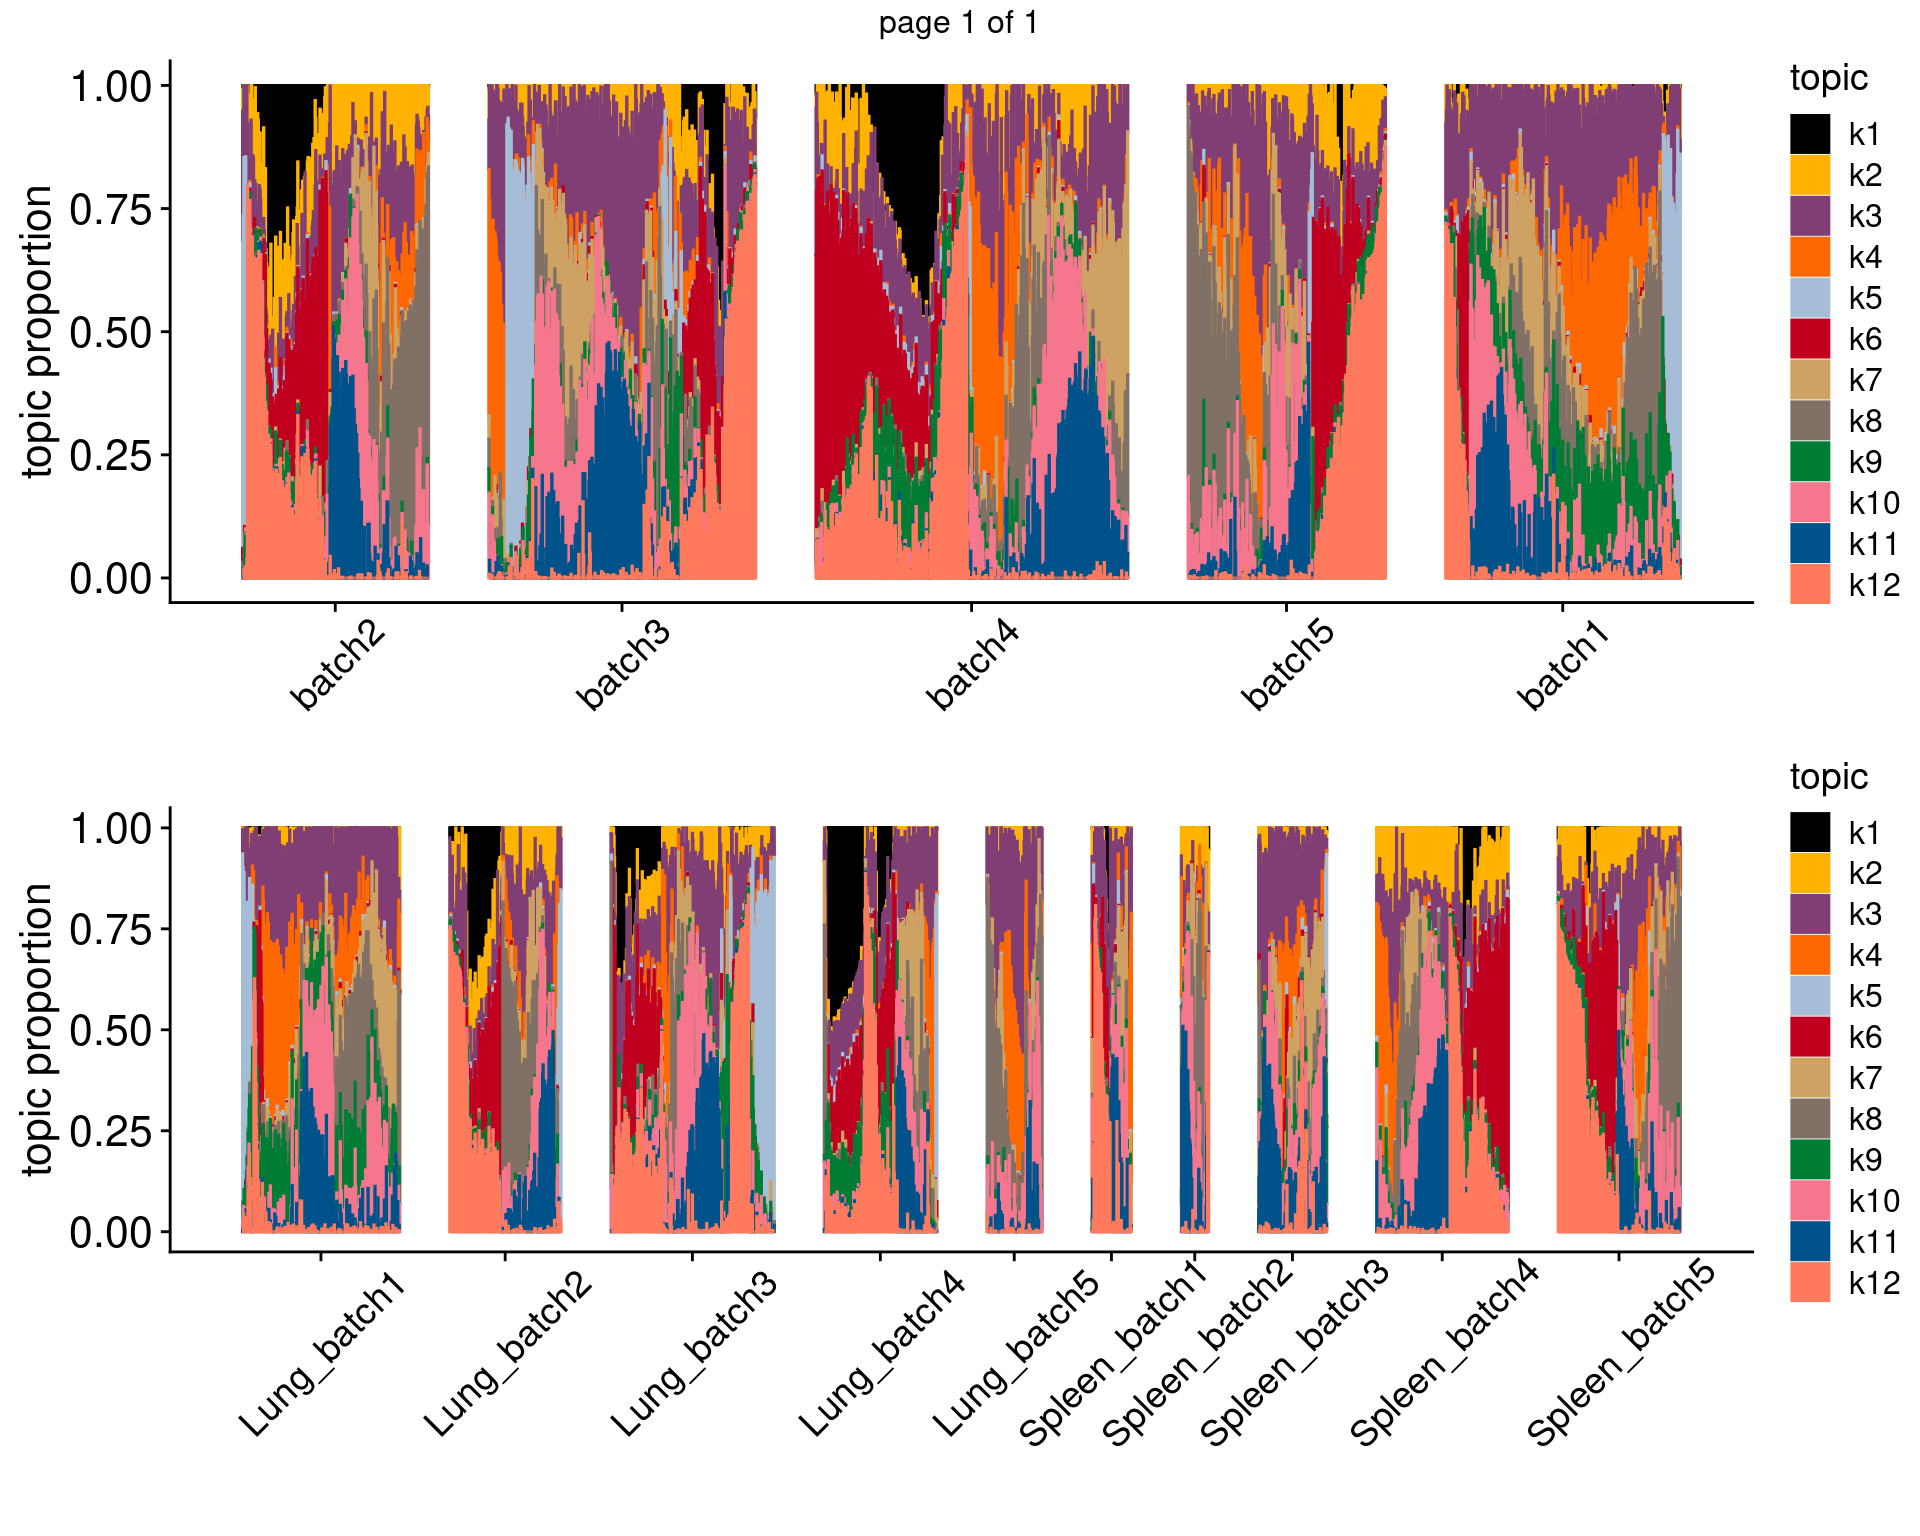
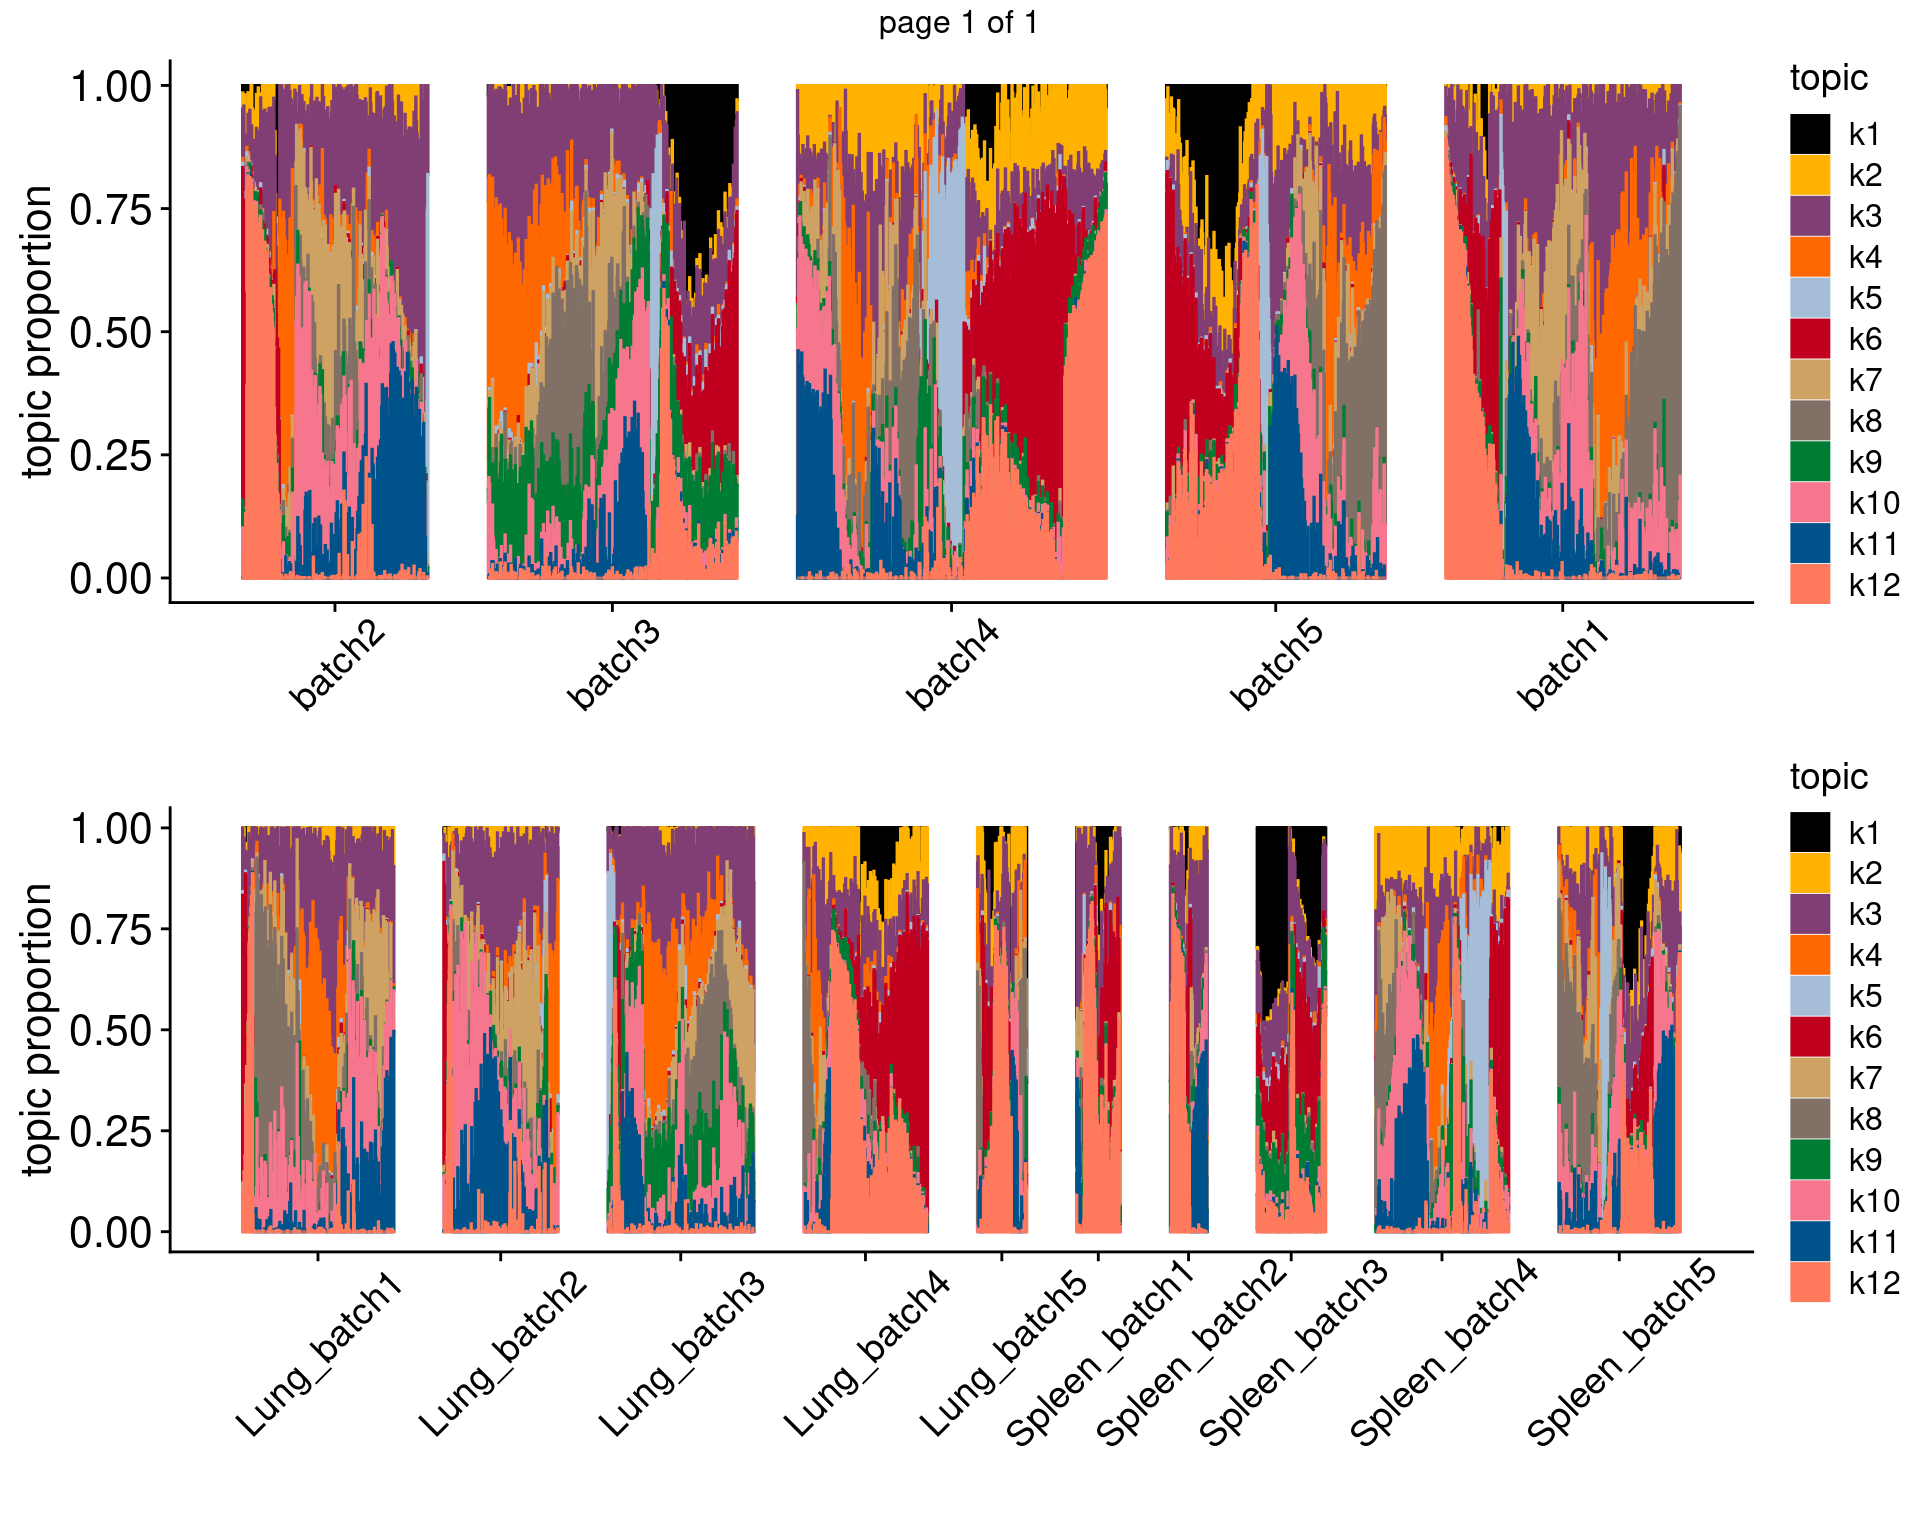
Build site.

diff --git a/docs/identify_batch_effects_full_atac.html b/docs/identify_batch_effects_full_atac.html
@@ -10,7 +10,7 @@
 
 
 
-<meta name="date" content="2025-01-21" />
+<meta name="date" content="2025-01-29" />
 
 <title>Identify batch effects on the full scATAC-seq dataset</title>
 
@@ -360,7 +360,7 @@ div.tocify {
 
 <h1 class="title toc-ignore">Identify batch effects on the full
 scATAC-seq dataset</h1>
-<h4 class="date">2025-01-21</h4>
+<h4 class="date">2025-01-29</h4>
 
 </div>
 
@@ -389,7 +389,7 @@ class="glyphicon glyphicon-ok text-success" aria-hidden="true"></span>
 <div class="tab-content">
 <div id="summary" class="tab-pane fade in active">
 <p>
-<strong>Last updated:</strong> 2025-01-21
+<strong>Last updated:</strong> 2025-01-29
 </p>
 <p>
 <strong>Checks:</strong> <span
@@ -520,15 +520,15 @@ project makes it easier to run your code on other machines.</p>
 <div class="panel panel-default">
 <div class="panel-heading">
 <p class="panel-title">
-<a data-toggle="collapse" data-parent="#workflowr-checks" href="#strongRepositoryversionstrongahrefhttpsgithubcomj3gulunglymphscMultiomicstree710e6c4924d714f4634006f4aff5f1f3bc99ebc1targetblank710e6c4a">
+<a data-toggle="collapse" data-parent="#workflowr-checks" href="#strongRepositoryversionstrongahrefhttpsgithubcomj3gulunglymphscMultiomicstree9e9d39278f07ab1d1dd5ae2113e9d23469f0b0bctargetblank9e9d392a">
 <span class="glyphicon glyphicon-ok text-success"
 aria-hidden="true"></span> <strong>Repository version:</strong>
-<a href="https://github.com/j3gu/lung_lymph_scMultiomics/tree/710e6c4924d714f4634006f4aff5f1f3bc99ebc1" target="_blank">710e6c4</a>
+<a href="https://github.com/j3gu/lung_lymph_scMultiomics/tree/9e9d39278f07ab1d1dd5ae2113e9d23469f0b0bc" target="_blank">9e9d392</a>
 </a>
 </p>
 </div>
 <div
[2 lines of base64/hex data omitted]
 class="panel-collapse collapse">
 <div class="panel-body">
 <p>
@@ -538,7 +538,7 @@ reproducibility.
 </p>
 <p>
 The results in this page were generated with repository version
-<a href="https://github.com/j3gu/lung_lymph_scMultiomics/tree/710e6c4924d714f4634006f4aff5f1f3bc99ebc1" target="_blank">710e6c4</a>.
+<a href="https://github.com/j3gu/lung_lymph_scMultiomics/tree/9e9d39278f07ab1d1dd5ae2113e9d23469f0b0bc" target="_blank">9e9d392</a>.
 See the <em>Past versions</em> tab to see a history of the changes made
 to the R Markdown and HTML files.
 </p>
@@ -577,6 +577,7 @@ Untracked files:
     Untracked:  analysis/ukb-a-446.log
     Untracked:  analysis/ukb-a-446_GO_immune.log
     Untracked:  code/.ipynb_checkpoints/
+    Untracked:  code/make_plots.R
     Untracked:  code/run_GO_enrichment.R
     Untracked:  code/run_fastTopics.R
     Untracked:  code/run_magma.sh
@@ -666,6 +667,40 @@ Message
 Rmd
 </td>
 <td>
+<a href="https://github.com/j3gu/lung_lymph_scMultiomics/blob/9e9d39278f07ab1d1dd5ae2113e9d23469f0b0bc/analysis/identify_batch_effects_full_atac.Rmd" target="_blank">9e9d392</a>
+</td>
+<td>
+Jing Gu
+</td>
+<td>
+2025-01-29
+</td>
+<td>
+identified batch effects in full ATAC-seq
+</td>
+</tr>
+<tr>
+<td>
+html
+</td>
+<td>
+<a href="https://rawcdn.githack.com/j3gu/lung_lymph_scMultiomics/a9d6863a68c4f20ac95e58648be0e1038a881bfe/docs/identify_batch_effects_full_atac.html" target="_blank">a9d6863</a>
+</td>
+<td>
+Jing Gu
+</td>
+<td>
+2025-01-21
+</td>
+<td>
+Build site.
+</td>
+</tr>
+<tr>
+<td>
+Rmd
+</td>
+<td>
 <a href="https://github.com/j3gu/lung_lymph_scMultiomics/blob/710e6c4924d714f4634006f4aff5f1f3bc99ebc1/analysis/identify_batch_effects_full_atac.Rmd" target="_blank">710e6c4</a>
 </td>
 <td>
@@ -727,6 +762,8 @@ sc-multiomics datasets. The topic model for the data set has 12 topics,
 and these topics vary in proportion across cell types, which have been
 previously defined by marker gene expression based on scRNA-seq
 data.</p>
+<pre><code>[1] &quot;check whether L matrix has the same order as metadata: &quot;</code></pre>
+<pre><code>[1] TRUE</code></pre>
 <div id="batch-information" class="section level2">
 <h2>Batch information</h2>
 <p>Samples are matched for tissues across batches: at least one lung and
@@ -824,12 +861,17 @@ class="section level2">
 <h3>Topic proportions by batches</h3>
 <p>Lung:</p>
 <ul>
-<li>topic 1 and topic 6 dominated by Lung COB-6 from batch 4</li>
-<li>topic 8 dominated by Lung COB-11 from batch 5</li>
+<li>k6 - COB-5 from batch 4</li>
+<li>k9 - SMO-8/9 from batch 3</li>
+<li>k12 - COB-5/6 from batch 4, COB-11 from batch 5</li>
 </ul>
 <p>Spleen:</p>
 <ul>
-<li>topic 7 dominated by Spleen SMO-10 from batch 3</li>
+<li>k1 - SMO-10 from batch 3, COB-10 from batch 5</li>
+<li>k6 - SMO-10 from batch 3, SMO-1 from batch 1, COB-10 from batch
+5</li>
+<li>k9 - SMO-10 from batch 3</li>
+<li>k12 - SMO-1 from batch 1 and SMO-4 from batch 2</li>
 </ul>
 <p><img src="figure/identify_batch_effects_full_atac.Rmd/unnamed-chunk-5-1.png" width="960" style="display: block; margin: auto;" /></p>
 <p>
@@ -1032,11 +1074,8 @@ Jing Gu
 <div id="correct-batch-effects-by-removing-samples"
 class="section level2">
 <h2>Correct batch effects by removing samples</h2>
-<p>COB-11 is the only lung sample in batch 5 and also asthmatic patient,
-so let’s keep it.</p>
-<p>After removing COB-6 sample, we see topic 7 and 9 have some kind of
-batch effects in lungs. After removing SMO-10 sample, we have no batch 3
-and less batch effects in spleens.</p>
+<p>After removing SMO-1/10 sample, we have no batch 3 and less batch
+effects in spleens.</p>
 <p><img src="figure/identify_batch_effects_full_atac.Rmd/unnamed-chunk-8-1.png" width="960" style="display: block; margin: auto;" /></p>
 <p>
 <button type="button" class="btn btn-default btn-xs btn-workflowr btn-workflowr-fig" data-toggle="collapse" data-target="#fig-unnamed-chunk-8-1">
